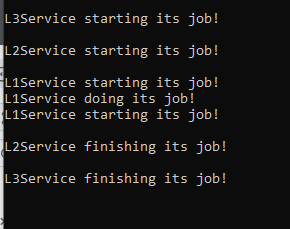
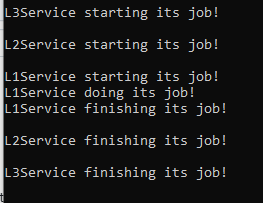
WIP

Changed region(s): [[0.0, 0.0, 0.8821, 1.0], [0.73, 0.5616, 0.7605, 0.5911]]

diff --git a/Layers/src/Layers/Layer1/DataLink.cpp b/Layers/src/Layers/Layer1/DataLink.cpp
@@ -25,6 +25,6 @@ void DataLink::L1Service(){
 	std::cout << std::endl;
 	std::cout << "L1Service starting its job!" << std::endl;
 	std::cout << "L1Service doing its job!" << std::endl;
-	std::cout << "L1Service starting its job!" << std::endl;
+	std::cout << "L1Service finishing its job!" << std::endl;
 	std::cout << std::endl;
 }
